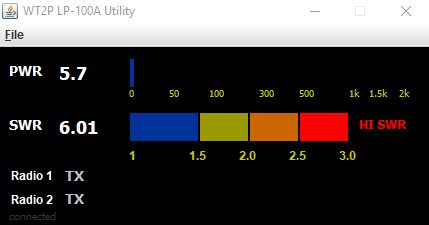
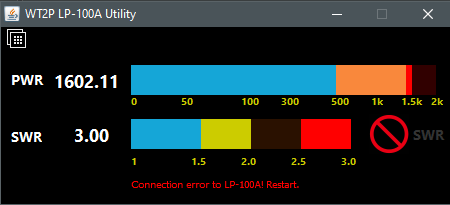
Update Documentation
Update documentation
Add in new images to reflect UI changes.

diff --git a/README.md b/README.md
@@ -1,28 +1,57 @@
 # LP100A OSD (On-Screen Display) Serial Interface
+## Updated February 2022 - wt2p@cedrick.io
 
-![](img/meter_mid_power.png)
+![](img/meter_high_power.png)
 
-This is a Java application that allows for people to connect to a [LP-100A](http://www.telepostinc.com/lp100.html) device and display on screen forward Power and SWR as seen on the actual LP-100A wattmeter. The utility supports single coupler and dual coupler features (dual coupler sampling is detected automatically).
+This is a Java application that allows for people to connect to a [LP-100A](http://www.telepostinc.com/lp100.html) 
+device and display on screen forward Power and SWR as seen on the actual LP-100A wattmeter. 
+The utility supports single coupler and dual coupler features (dual coupler sampling
+is detected automatically within the LP-100 - if module is installed).
 
-If you're using the latest firmware **(TBD)** for the LP-100A, the program will tell you which coupler (Radio 1 or Radio 2) is currently transmitting.
+### Notable Fixes (January 2022)
 
+* Bargraphs are now "uniform": No visible breaks between segments.
+![Old Metering](img/meter_mid_power_old.png)
+* Updated colorscheme: Colors are more appealing (to me, feedback always welcome) for extended 
+operating sessions and the contrast allows for immediate identification of power and SWR levels.
+* Smaller Size: 450 x 205 pixels makes it easy to tuck away on a busy operating screen
+* Always On Top: With the smaller size, the utility window is now always on top of other
+applications. This ensures that you have constant visibility into what is happening.
+* Updated High SWR notice: Icon added for High SWR along with "SWR" text in red
+anytime the SWR is above 3.0:1
+* Connection Status: If there's an error connecting to the LP-100, it is now shown 
+in the text area at the bottom of the utility. If there is a connection and the utility
+is reading data from the LP-100, a small "rocket" icon appears in the lower left
+and the connection status text displays "Connected" in green.
+* Other minor cosmetic changes and behind the scenes updates. Removed stuff that will not be 
+used. Will consider adding new stuff later. See the roadmap below.
+
+![Connected](img/meter_new_connected.png)
+ 
 ## Colors
 
 Power Meter color schemes are indicated by the following:
- * Dark Blue for Low Power (0-500 watts)
- * Dark Yellow for Medium Power (500-1000 watts)
- * Dark Orange for High Power (1000-1500 watts)
- * Bright Red for 1500-2000 watts
+ * Blue: Low Power (0-500 watts)
+ * Orange: Medium/High Power (500-1500 watts)
+ * Bright Red: "Oops Power" (1500-2000 watts)
 
 SWR Meter color schemes are indicated by the following:
-* Dark Blue: 1.0-1.49
+* Blue: 1.0-1.49
 * Yellow: 1.50-1.99
 * Orange: 2.0 - 2.49
 * Red: 2.50 +
 
-If the SWR is above 3.0, an additional bright red alert text will display to the right of the SWR bargraph.
+If the SWR is above 3.0, an additional alert icon and text displays to the right of the SWR Bargraph.
 
 ![High SWR](img/meter_hi_swr.png)
+
+
+![Low Power](img/meter_low_power.png)
+
+## Prerequisites:
+
+To run, you need the latest Java Runtime Environment installed. You can obtain this
+from the [Oracle Java Website](https://java.com)
 
 ## Downloading and Installing
 
@@ -40,11 +69,11 @@ Move this to your Windows desktop.
 
 ### On Linux/OSX:
 
-Start from the command line or create a link that passes in the correct parameters (com/serial port and latest firmware flag).
+Start from the command line or create a link that passes in the correct parameter (com/serial port).
 
 i.e. if you are using an usb-serial adapter:
 
-`java -jar WT2P-LP100A.jar /dev/ttyUSB1 <LATEST_LP_100_FIRMWARE>`
+`java -jar WT2P-LP100A.jar /dev/ttyUSB1`
 
 You must use either sudo (not recommended) or give your serial/usb serial ports read-write access to your user.
 
@@ -61,16 +90,15 @@ Change your device name to fit your configuration.
 
 You can manually run this via the command line:
 
-`java -jar WT2P-LP100A.jar <COM_PORT> <LATEST_LP_100_FIRMWARE>`
+`java -jar WT2P-LP100A.jar <COM_PORT>`
 
 Where:
 `COM_PORT` is the Com Port your LP-100A is running on (i.e. COM9 on Windows, /dev/ttyS0 on *NIX variants)
 
-`LATEST_LP_100_FIRMWARE`  is set to true if you're running the latest LP-100A firmware (July/August 2018). You're probably not (yet), so this should be set to false.
+`java -jar WT2P-LP100A.jar COM9`
 
-`java -jar WT2P-LP100A.jar COM9 false`
-
-You should see the LP-100A software display on screen and the text "connected" appears in the lower left corner of the screen. Apply RF from your radio and the application will display Power and SWR measurements from the LP-100A.
+You should see the LP-100A software display on screen and the text "Connected" appears in the lower corner of the utility. 
+Apply RF from your radio and the application will display Power and SWR measurements from the LP-100A.
 
 ## Known Issues
 
@@ -83,9 +111,8 @@ You should see the LP-100A software display on screen and the text "connected" a
 ## Future Plans
 
 * Remote networking (client/server) support
-* Dual Coupler Support: Identify which coupler has active RF
-* Customize Power bar colors
-* Customize SWR bar colors
+* Dual Coupler Support: Identify which coupler has active RF (Abandoned in 2022, no firmware support)
+* As time permits, investigate using a config file to further customize items in the app. Send suggestions.
 
 ## License
 GPL v.3
